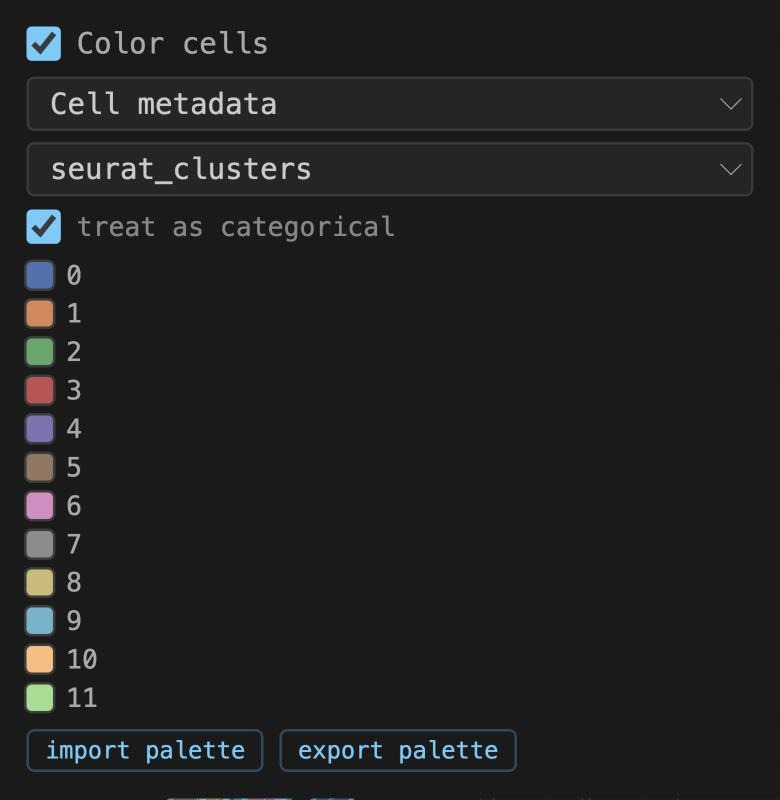
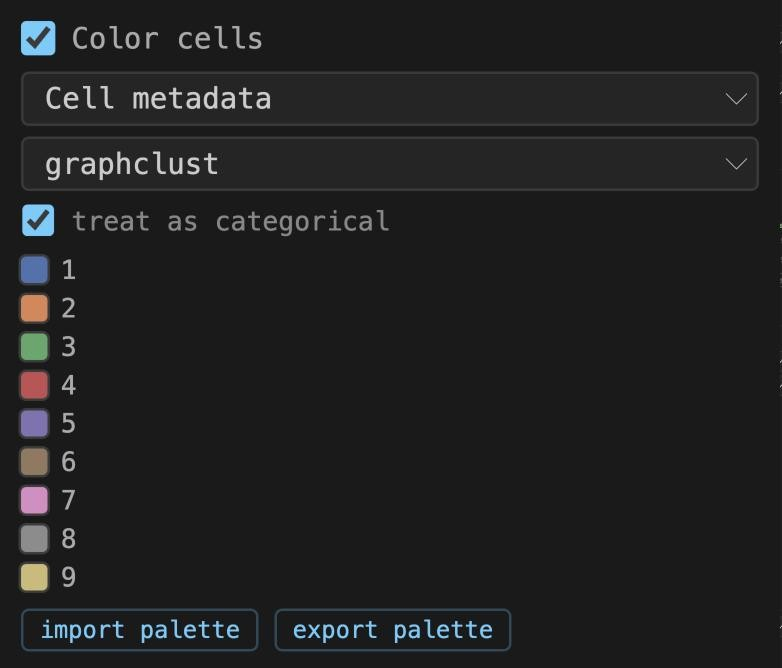
Worked examples on real data only: breast dataset loses its generated edges, gains 10x clusters; examples 1, 3 and 5 re-shot
The examples no longer use synthetic data. xenium_human_breast_2fov's
top-level edges.parquet was a make_edges.py placeholder (20 mouse-named
mechanisms with no transcripts behind them) that the provenance note
described as a NICHESv2 result; it is removed, and edges/niches_rad30.parquet
is the one edge source. 10x's own graph-based clustering ships as
cell-metadata/graphclust_10x.csv, and edge-metadata/ is recomputed from the
real run without the invented review flag. The release zip is rebuilt
(274 MB, digest in fetch_samples.py, RELEASE_TAG v1.0.1) and the provenance
note corrected.

Example 1's breast pair and edge panel are re-shot on the real run; Example 3
moves from the ileum fixture to the breast clusters; Example 5 drops the
synthetic seqFISH figure and gains 5d, one mechanism with every layer:
CXCL12 -> CXCR4 edges, its ligand and receptor transcripts, cell outlines and
cluster colours in a 115 um field, with a layer-by-layer reading.

Three fixes along the way: whole-number metadata columns are restored to
Int64 after the supplemental join (clusters read '1', not '1.0', and filters
match); the edge colour range covers drawn edges only, so pairs with none of
the selected mechanisms no longer pull the robust window to 0; re-selecting
the current edge source no longer empties the mechanism checklist. Golden
baseline re-recorded for the breast changes (all eleven moved probes are in
that dataset).

diff --git a/docs/vignettes.html b/docs/vignettes.html
@@ -116,11 +116,11 @@ datasets are published as release assets; one command fetches them:</p>
 <pre><code>python3 sample_data/fetch_samples.py</code></pre>
 <table>
   <tr><th>Menu entry</th><th>Platform</th><th>What it is</th><th>Used in</th></tr>
-  <tr><td><code>mouse_ileum_tiny</code></td><td>Xenium</td><td>Three 640-px patches of mouse ileum (36 cells) from 10x's tiny example run, with example <code>cell-metadata/</code>, <code>edge-metadata/</code> and two extra edge sets. In the clone.</td><td>3</td></tr>
+  <tr><td><code>mouse_ileum_tiny</code></td><td>Xenium</td><td>Three 640-px patches of mouse ileum (36 cells) from 10x's tiny example run, with generated edges and example metadata: a test fixture. In the clone.</td><td>—</td></tr>
   <tr><td><code>visium_hd_tiny</code></td><td>Visium HD</td><td>A corner of 10x's "Tiny Mouse Brain" Space Ranger output, 8 µm and 16 µm bins. In the clone.</td><td>4</td></tr>
-  <tr><td><code>visium_tiny</code></td><td>Visium</td><td>Synthetic classic Visium slide, 252 spots. In the clone.</td><td>—</td></tr>
-  <tr><td><code>seqfish_synthetic</code></td><td>seqFISH</td><td>Synthetic Spatial Genomics GenePS region, 36 cells. In the clone.</td><td>5</td></tr>
-  <tr><td><code>xenium_human_breast_2fov</code></td><td>Xenium</td><td>10x's human breast example, two fields of view, 7,275 cells, DAPI image, NICHESv2 edges. Fetched.</td><td>1, 5, 7</td></tr>
+  <tr><td><code>visium_tiny</code></td><td>Visium</td><td>Synthetic classic Visium slide, 252 spots, a test fixture. In the clone.</td><td>—</td></tr>
+  <tr><td><code>seqfish_synthetic</code></td><td>seqFISH</td><td>Synthetic Spatial Genomics GenePS region, 36 cells, a test fixture. In the clone.</td><td>—</td></tr>
+  <tr><td><code>xenium_human_breast_2fov</code></td><td>Xenium</td><td>10x's human breast example, two fields of view, 7,275 cells, DAPI image, a NICHESv2 run and 10x's own graph clusters. Fetched.</td><td>1, 3, 5, 7</td></tr>
   <tr><td><code>visium_mouse_kidney</code></td><td>Visium</td><td>10x's mouse kidney coronal section, 1,438 spots on tissue, NICHESv2 spot–spot edges. Fetched.</td><td>4</td></tr>
   <tr><td><code>cosmx-mousebrain</code></td><td>CosMx</td><td>Bruker/NanoString 1000-plex mouse brain, coronal section, 38,996 cells, no image. Fetched; non-commercial licence.</td><td>1, 2, 6</td></tr>
 </table>
@@ -162,20 +162,19 @@ already know its anatomy, so you can judge the answer.</p>
 </ul>
 <h3>The same two steps on a different platform</h3>
 <p>Nothing above is specific to CosMx. The pair below is the Xenium human breast example
-(two fields of view, 7,275 cells, 44,759 pairs) drawn with the same settings. Its scores are
-tightly bunched rather than heavy-tailed (median 9.1 in a span of 4.7–12.0), so here the
-range is a stated clamp rather than the robust window.</p>
+(two fields of view, 7,275 cells, 181,523 directed pairs scored over 32 mechanisms) drawn
+with the same settings and the same <span class="ui">robust 5–95%</span> range.</p>
 <figure class="pair">
-  <img src="img/vignettes/ex1_breast_graph.jpg" alt="The tissue graph of a two-field Xenium breast section drawn as thin grey lines">
-  <img src="img/vignettes/ex1_breast_scored.jpg" alt="The same breast graph scored with viridis: mostly purple with scattered yellow pairs">
-  <figcaption>Xenium breast, tissue graph and scored graph. Colour range clamped to <strong>9.0–10.5</strong>; scores in view span 4.7–12.0.</figcaption>
+  <img src="img/vignettes/ex1_breast_graph.jpg" alt="The tissue graph of a two-field Xenium breast section drawn as thin grey lines, dense in the tumour and open in the stroma">
+  <img src="img/vignettes/ex1_breast_scored.jpg" alt="The same breast graph scored with viridis: purple through the stroma, with yellow concentrated in the tumour nests">
+  <figcaption>Xenium breast, tissue graph and scored graph, every pair drawn. Window 0–33 (robust 5–95% of the scores in view, whose full span is 0–693). The yellow sits in the tumour nests, where epithelial cells pack tightly and homotypic pairs such as CDH1–CDH1 and DSC2–DSC2 score highly; the stroma between them is purple.</figcaption>
 </figure>
 <figure>
-  <img src="img/vignettes/xenium_edge_info_pane.jpg" alt="The viewer with an edge selected; a floating panel lists sending cell, receiving cell, annotations and the scored mechanisms with their percentages">
-  <figcaption>Shift-click on an edge (breast dataset). The panel reads sending cell (Endothelial) → receiving cell (Smooth_Muscle), the demo annotations, then Fgf2→Fgfr1, Efnb1→Ephb4 and Vegfa→Flt1 with their scores.</figcaption>
+  <img src="img/vignettes/xenium_edge_info_pane.jpg" alt="The EDGE panel for one cell pair: sending and receiving cell ids, an Annotations block with interaction_class, score_tier and score_percentile, and seven mechanisms with their scores and shares, led by CXCL12 to CD4 and CXCL12 to CXCR4">
+  <figcaption>Shift-click on an edge (breast dataset). The <strong>EDGE</strong> panel names the sending and receiving cell, shows the pair's annotations from <code>edge-metadata/</code>, then every mechanism NICHESv2 scored on it with its share of the total: here seven, led by CXCL12 → CD4 and CXCL12 → CXCR4.</figcaption>
 </figure>
 <div class="callout tip"><strong class="label">Try next</strong>
-<p>Open <strong>Edge Filter</strong> and set <span class="ui">Sending cell</span> to a cell-type column. Only edges leaving that cell type remain; the tissue graph underneath is untouched, so you can still see the neighbourhood structure the filter removed.</p></div>
+<p>Open <strong>Edge Filter</strong> and set <span class="ui">Sending cell</span> to <span class="ui">graphclust</span>, then keep one cluster. Only edges leaving that cluster remain; the tissue graph underneath is untouched, so you can still see the neighbourhood structure the filter removed.</p></div>
 
 <!-- ─────────────────────────────────────────────────────────────── -->
 <h2 id="ex2"><span class="num">2</span>One cell's neighbourhood</h2>
@@ -209,7 +208,7 @@ with, how far they reach, and which mechanisms dominate across those edges.</p>
 
 <!-- ─────────────────────────────────────────────────────────────── -->
 <h2 id="ex3"><span class="num">3</span>Your own annotations, without touching the data</h2>
-<p class="meta">Dataset <code>mouse_ileum_tiny</code> · 3 minutes · in the clone</p>
+<p class="meta">Dataset <code>xenium_human_breast_2fov</code> (fetched) · 3 minutes</p>
 <p>Most analysis happens in R or Python after the instrument has finished. TissuePlex
 reads that work from two plain folders dropped beside the dataset, so clusters,
 scores or review flags appear in the viewer without regenerating anything:</p>
@@ -217,34 +216,39 @@ scores or review flags appear in the viewer without regenerating anything:</p>
   <li><code>cell-metadata/</code>, one row per cell, keyed on the cell barcode. <code>write.csv(df, "cell-metadata/clusters.csv")</code> from R works as is.</li>
   <li><code>edge-metadata/</code>, one row per cell pair, keyed on <code>"Sender|Receiver"</code>.</li>
 </ul>
-<p>The demo dataset ships both. Its <code>cell-metadata/example_clusters.csv</code> has a
-<code>seurat_clusters</code> column with twelve integer levels, chosen on purpose: integers
-are the common case for cluster ids and the awkward one for a viewer. It is a tiny
-fixture, three 640-pixel patches with 36 cells, so the figures here are small by nature;
-everything in it works the same on a full run.</p>
+<p>The breast dataset ships both. <code>cell-metadata/graphclust_10x.csv</code> is 10x's own
+graph-based clustering of this run, copied from the <code>analysis/</code> folder Xenium
+Onboard Analysis writes, with nine integer levels: integers are the common case for
+cluster ids and the awkward one for a viewer. <code>edge-metadata/example_annotations.csv</code>
+holds three per-pair summaries computed from the NICHESv2 file (whether the pair is
+autocrine or paracrine, a score tercile, and a score percentile), standing in for the
+columns a lab would write about its own pairs.</p>
 <ol>
-  <li>Choose <span class="ui">mouse_ileum_tiny</span> and zoom into the middle patch. Raise <span class="ui">outline</span> to 50% under <strong>Cell Segments</strong>.</li>
-  <li>Under <strong>Cell Color</strong>, tick <span class="ui">Color cells</span>, choose <span class="ui">Cell metadata</span>, then <span class="ui">seurat_clusters</span>.</li>
-  <li>The legend lists clusters 0 to 11 in numeric order with a swatch each; click a swatch to change its colour, or <span class="ui">import palette</span> to load a <code>category,#hex</code> file.</li>
-  <li>Hold <kbd>Shift</kbd> and click an edge: the <strong>EDGE</strong> panel opens with an <strong>Annotations</strong> block from <code>edge-metadata/example_annotations.csv</code>.</li>
+  <li>Choose <span class="ui">xenium_human_breast_2fov</span> and zoom into the edge of the tumour,
+  where the stroma runs through it as a dark band. Set <span class="ui">Cell Segments → fill</span> to
+  55% and <span class="ui">outline</span> to 40%, <span class="ui">Morphology</span> to 40%.</li>
+  <li>Under <strong>Cell Color</strong>, tick <span class="ui">Color cells</span>, choose
+  <span class="ui">Cell metadata</span>, then <span class="ui">graphclust</span>.</li>
+  <li>The legend lists clusters 1 to 9 in numeric order with a swatch each; click a swatch to change its colour, or <span class="ui">import palette</span> to load a <code>category,#hex</code> file.</li>
+  <li>Tick <span class="ui">Edges</span> at about 45% so the signalling graph sits over the clusters, then hold <kbd>Shift</kbd> and click a line: the <strong>EDGE</strong> panel opens with an <strong>Annotations</strong> block from <code>edge-metadata/</code> above the mechanisms.</li>
 </ol>
 <figure>
-  <img src="img/vignettes/ex3_clusters.jpg" alt="Fourteen cell polygons filled in twelve distinct cluster colours with light outlines, joined by thin directed edges, on a dark background">
-  <figcaption><strong>3a · Cells filled by <code>seurat_clusters</code></strong> from a CSV in <code>cell-metadata/</code>, with the NICHESv2 edges between them. The viewer recognised twelve integer levels as categories rather than a 0–11 gradient; <span class="ui">treat as categorical</span> is there to override that call either way.</figcaption>
+  <img src="img/vignettes/ex3_clusters.jpg" alt="Several hundred cells filled by cluster colour: red, green and blue tumour clusters packed together, a band of purple stromal cells running diagonally through them, blue outlines, and NICHESv2 edges drawn over everything in viridis">
+  <figcaption><strong>3a · Cells filled by <code>graphclust</code></strong> from a CSV in <code>cell-metadata/</code>, 437 cells in a 258 × 185 µm field at the tumour edge, with every NICHESv2 pair drawn over them at 45%. The viewer recognised nine integer levels as categories rather than a 1–9 gradient; <span class="ui">treat as categorical</span> is there to override that call either way. The clusters follow the tissue: the three tumour clusters (red 4, green 3, blue 1) fill the nests, and the purple cluster 5, whose enriched genes are VWF, PDGFRB, POSTN and LRRC15, is the stromal band between them.</figcaption>
 </figure>
 <figure class="pair">
-  <img src="img/vignettes/ex3_legend.jpg" alt="The Cell Color section: Color cells ticked, Cell metadata, seurat_clusters, treat as categorical ticked, twelve colour swatches labelled 0 to 11, and import and export palette buttons">
-  <img src="img/vignettes/ex3_edgepanel.jpg" alt="The EDGE panel for an Endothelial to Fibroblast pair: an Annotations block with interaction_class heterotypic, score_tier mid, score_percentile 52.44, demo_review_flag unreviewed, then three mechanisms with scores">
-  <figcaption><strong>3b · The two places annotations surface.</strong> Left: the <strong>Cell Color</strong> section with the categorical legend. Cluster 10 sorts after cluster 9, not between 1 and 2, because columns whose labels all parse as numbers are ordered numerically. Right: the <strong>EDGE</strong> panel for one Endothelial→Fibroblast pair; the <strong>Annotations</strong> block is the row for this pair in <code>edge-metadata/</code>, above the three mechanisms NICHESv2 scored on it. The folder's README says which of those columns are derived from the edge file and which one is invented.</figcaption>
+  <img src="img/vignettes/ex3_legend.jpg" alt="The Cell Color section: Color cells ticked, Cell metadata, graphclust, treat as categorical ticked, nine colour swatches labelled 1 to 9, and import and export palette buttons">
+  <img src="img/vignettes/ex3_edgepanel.jpg" alt="The EDGE panel for one pair: sending and receiving cell ids, an Annotations block with interaction_class paracrine, score_tier high and score_percentile 99.920, then seven mechanisms with scores and shares, led by CXCL12 to CD4 and CXCL12 to CXCR4">
+  <figcaption><strong>3b · The two places annotations surface.</strong> Left: the <strong>Cell Color</strong> section with the categorical legend; the labels read <code>1</code> to <code>9</code>, not <code>1.0</code>, even though two cells in the file have no cluster. Right: the <strong>EDGE</strong> panel for one pair in the stroma; the <strong>Annotations</strong> block is the row for this pair from <code>edge-metadata/</code>, and below it the seven mechanisms NICHESv2 scored on it.</figcaption>
 </figure>
 <h3>What to notice</h3>
 <ul>
-  <li>The same column is offered under <strong>Cell Filter</strong>. Choose it there and untick all but one cluster: the remaining cells are drawn at full density, because the filter is applied on the server before sampling.</li>
-  <li>Annotation columns also appear in the <span class="ui">edge color</span> and <strong>Edge Filter</strong> menus, so a review flag or a confidence tier can colour or subset the edges directly.</li>
-  <li>The cell types in the EDGE panel header (Endothelial, Fibroblast) come from the edge file's own <code>sending_type</code> / <code>receiving_type</code> columns, which NICHESv2 writes only when asked; in this fixture they are simulated.</li>
+  <li>The same column is offered under <strong>Cell Filter</strong>. Choose <span class="ui">graphclust</span> there and untick all but cluster 5: only the stroma remains, drawn at full density, because the filter is applied on the server before sampling.</li>
+  <li>Annotation columns also appear in the <span class="ui">edge color</span> and <strong>Edge Filter</strong> menus, so <code>score_tier</code> can colour the edges and <code>interaction_class</code> can subset them directly.</li>
+  <li>The clusters carry no names. What each one is enriched for can be read off the transcripts (example 5): cluster 6 for CD163, C1QA and LYZ, cluster 8 for KRT14 and KRT5, cluster 9 for PTPRC. Naming them is the analyst's job, in the CSV.</li>
 </ul>
 <div class="callout tip"><strong class="label">Try next</strong>
-<p>This dataset also has three edge sets. The <span class="ui">Edge source</span> menu at the top of the sidebar switches between <code>edges</code>, <code>edge.raw.minimum</code> and <code>edge.normalized.product</code>, each a different scoring of the same tissue.</p></div>
+<p>Open <strong>Edge Filter</strong>, set <span class="ui">Sending cell</span> to <span class="ui">graphclust</span> and keep only cluster 5. The edges that remain all leave the stroma; the tissue graph underneath is untouched, so the neighbourhood structure the filter removed is still visible.</p></div>
 
 <!-- ─────────────────────────────────────────────────────────────── -->
 <h2 id="ex4"><span class="num">4</span>Spots and bins: the array platforms</h2>
@@ -284,7 +288,7 @@ and <strong>Spot Info</strong> on Visium, <strong>Bin Segments</strong> on HD.</
 
 <!-- ─────────────────────────────────────────────────────────────── -->
 <h2 id="ex5"><span class="num">5</span>Transcripts inside their cells</h2>
-<p class="meta">Datasets <code>xenium_human_breast_2fov</code> (fetched) and <code>seqfish_synthetic</code> (in the clone) · 4 minutes</p>
+<p class="meta">Dataset <code>xenium_human_breast_2fov</code> (fetched) · 4 minutes</p>
 <p>Imaging platforms record every transcript as a point with a gene name. TissuePlex
 draws those points where they were detected, over the nuclear stain and inside the
 cell outlines they were assigned to, coloured by gene, and filters them by gene in the
@@ -332,16 +336,61 @@ histologist asks of an in-situ stain: which cells, exactly, express this?</p>
   where LUM (pink) takes over; MKI67 (green) picks out the cells in cycle. Nothing here
   was drawn by hand: this is the gene filter and three colours.</figcaption>
 </figure>
+<h3>Every layer at once: one mechanism, its transcripts, and the cells</h3>
+<p>The layers above were introduced one at a time. On real data the point is to stack
+them: pick one ligand–receptor mechanism, draw its edges, draw the transcripts of its
+ligand and its receptor, and colour the cells by an independent clustering. Five
+layers, each from a different file, in one field 115 µm across.</p>
+<ol>
+  <li>Keep the settings of 5a, with <span class="ui">Morphology</span> down to 40% and
+  <span class="ui">Cell Segments → fill</span> up to 35%.</li>
+  <li>Under <strong>Cell Color</strong>, tick <span class="ui">Color cells</span>, choose
+  <span class="ui">Cell metadata</span>, then <span class="ui">graphclust</span>. That column
+  is 10x's own graph-based clustering of this run, read from
+  <code>cell-metadata/graphclust_10x.csv</code> beside the dataset; the viewer recognises its
+  nine integer levels as categories and gives each a colour.</li>
+  <li>Under <strong>Transcript Species</strong>, select only CXCL12 and CXCR4; give them white
+  and red with the swatches, or <span class="ui">import palette</span> with
+  <code>breast_cxcl12_palette.csv</code>.</li>
+  <li>Tick <span class="ui">Edges</span>, drag its <span class="ui">sample</span> to 100%, set
+  <span class="ui">width</span> 1.5, <span class="ui">offset</span> 2 and
+  <span class="ui">Harpoon</span>, and under <strong>LRM Mechanisms</strong> click
+  <span class="ui">none</span> and tick only CXCL12 → CXCR4. Set the edge legend to
+  <span class="ui">robust 5–95%</span>. Zoom in until about 80 cells fill the view.</li>
+</ol>
 <figure>
-  <img src="img/vignettes/ex5_seqfish.jpg" alt="Thirty-six synthetic cells in a grid, each a DAPI blob inside a polygon outline filled with coloured transcript dots">
-  <figcaption><strong>5d · The same layers on a Spatial Genomics GenePS export.</strong>
-  <code>seqfish_synthetic</code> is a 36-cell fixture made by <code>sample_data/make_seqfish.py</code>,
-  not tissue, and it exists for a reason worth knowing: on this platform the cell
-  outlines (GeoJSON) are in pixels and the transcripts (CSV) are in microns. The reader
-  decides each table's units separately, which is why both land on the same cells; a
-  viewer that applied one transform to everything would draw the dots at a hundredth
-  of the size of the outlines. All 10,026 transcripts of its 36 genes are drawn.</figcaption>
+  <img src="img/vignettes/ex5_layers.jpg" alt="About eighty cells filled in cluster colours, mostly tan with some purple, green and pink, outlined in blue over faint DAPI; white CXCL12 and red CXCR4 transcript dots inside them; and CXCL12 to CXCR4 edges drawn as offset lines with harpoon heads, coloured purple to yellow by score, converging on receiving cells">
+  <figcaption><strong>5d · One mechanism, every layer.</strong> A 115 × 83 µm field of
+  breast stroma: 84 cells, 252 CXCL12 and 107 CXCR4 transcripts, and the 754 directed
+  CXCL12 → CXCR4 edges that touch the field, out of 1,707 scored pairs there. Both
+  sample sliders at 100%, so nothing is thinned. Edge colour: viridis, window 1–30
+  (robust 5–95% of the drawn edges, whose full span is 1–130).</figcaption>
 </figure>
+<p>Reading it from the bottom up:</p>
+<ul>
+  <li><strong>DAPI</strong>, grey, from the morphology image: where the nuclei are. It is
+  the one layer that is a picture rather than data.</li>
+  <li><strong>Cell outlines</strong>, blue, from the segmentation: which pixels the
+  instrument assigned to which cell. Every other layer is joined to these by cell id.</li>
+  <li><strong>Cell fill</strong>, one colour per cluster, from a CSV of analysis results
+  dropped beside the data. Here nine clusters from 10x's pipeline; the tan cluster (cluster 6, 44 of these
+  cells) is enriched for CD163, C1QA, LYZ and ITGAX, the purple one (cluster 5) for
+  VWF, PDGFRB and POSTN. A Seurat or scanpy label column works the same way.</li>
+  <li><strong>Transcripts</strong>, white for the ligand CXCL12 and red for the receptor
+  CXCR4, each dot at the position it was detected. This is the evidence: the nine cells
+  of cluster 5 in view, the stromal cluster, hold 87 of the 252 CXCL12 dots, while
+  CXCR4 is spread over the macrophage-like cluster 6 and the PTPRC-rich cluster 9.</li>
+  <li><strong>Edges</strong>, one per sending → receiving pair, from NICHESv2: each line is
+  that pair's score for this one mechanism, drawn from sender to receiver with the
+  harpoon at the receiving end, offset so that A → B and B → A are separate lines. The
+  fan of yellow lines converging on a cell is a cell whose neighbours send it CXCL12
+  while it expresses CXCR4; the transcripts underneath show why.</li>
+</ul>
+<p>Every number in the caption can be checked against the files: the cells and
+transcripts against the platform's own output, the clusters against 10x's
+<code>analysis/</code> folder, the edges against <code>edges/niches_rad30.parquet</code>.
+Nothing was drawn by hand.</p>
+
 <div class="callout note"><strong class="label">Quality filter</strong>
 <p>Xenium scores each transcript's decoding quality. Like Xenium Explorer, TissuePlex
 hides transcripts below Q&nbsp;20 by default; tick <span class="ui">show low-quality

diff --git a/frontend/src/hooks/useEdgeColors.js b/frontend/src/hooks/useEdgeColors.js
@@ -67,9 +67,16 @@ export function useEdgeColors(
     if (!enabled || mode !== "lrm_set" || !edges || edges.length === 0) return null;
     // visible_score_sum is present only while an LRM filter is active; with no
     // filter the rows are the raw structural rows and score_sum is the total.
-    const n = edges.length;
+    // Only edges that will be drawn enter the range: a pair carrying none of
+    // the selected mechanisms has visible_lrm_count 0 and is skipped by the
+    // layer, and letting its zero score into the window pulled the robust
+    // 5th percentile to 0 and the 95th well below the drawn edges' own.
+    const drawn = [];
+    for (const e of edges) if ((e.visible_lrm_count ?? e.lrm_count ?? 1) > 0) drawn.push(e);
+    const n = drawn.length;
+    if (n === 0) return null;
     const scores = new Float64Array(n);
-    for (let i = 0; i < n; i++) scores[i] = edges[i].visible_score_sum ?? edges[i].score_sum ?? 0;
+    for (let i = 0; i < n; i++) scores[i] = drawn[i].visible_score_sum ?? drawn[i].score_sum ?? 0;
     const r = rangeOf(scores, rangeMode);
     const { min, max } = r;
     const lo = clamp?.low  ?? r.lo;
@@ -83,7 +90,7 @@ export function useEdgeColors(
     for (let i = 0; i < n; i++) {
       const c = valueToColor(scores[i], lo, hi, palette);
       const a = fadeFrac == null ? 255 : fadeAlpha(span > 0 ? (scores[i] - lo) / span : 1, fadeFrac);
-      colorMap.set(edges[i].edge, [c[0], c[1], c[2], a]);
+      colorMap.set(drawn[i].edge, [c[0], c[1], c[2], a]);
     }
     return { colorValues: colorMap, type: "continuous", vmin: min, vmax: max, lo, hi, autoLo: r.lo, autoHi: r.hi, categories: [], categoryColors: new Map() };
   }, [enabled, mode, edges, palette, clamp?.low, clamp?.high, fadeFrac, rangeMode]);

diff --git a/frontend/src/store.js b/frontend/src/store.js
@@ -275,6 +275,11 @@ export const useStore = create((set, get) => ({
   // The LRM catalogue, colour range and edge filter are all specific to one
   // edges.parquet and must be re-derived when the source changes.
   setPanelEdgeFile: (i, edgeFile) => set((s) => {
+    // Re-selecting the file already in use is a no-op. The dataset picker
+    // confirms the default once the file list resolves, and clearing the
+    // catalogue here without a change of `edgeFile` to refetch it left the
+    // mechanism checklist empty ("0 of 0 LRMs").
+    if (s.panels[i]?.edgeFile === edgeFile) return s;
     const next = [...s.panels];
     next[i] = {
       ...next[i], edgeFile, lrmCatalogue: [],

diff --git a/sample_data/fetch_samples.py b/sample_data/fetch_samples.py
@@ -2,7 +2,7 @@
 """Fetch the larger TissuePlex demo datasets into sample_data/.
 
 Four small datasets are committed to the repository. The real, larger ones are
-too big for git and are attached to the v1.0.0 GitHub release instead. This
+too big for git and are attached to the v1.0.1 GitHub release instead. This
 script downloads them, verifies their SHA-256 checksums, and unpacks each into
 its own folder beside this file, where `docker compose up` (which mounts
 sample_data/ as /data) and the dev backend (DATA_ROOT=../sample_data) find them.
@@ -31,17 +31,17 @@ import urllib.request
 import zipfile
 from pathlib import Path
 
-RELEASE_TAG = "v1.0.0"
+RELEASE_TAG = "v1.0.1"
 RELEASE_BASE = f"https://github.com/RaredonLab/TissuePlex/releases/download/{RELEASE_TAG}"
 
 # name -> metadata. `sha256` is of the zip asset; `size_mb` is the download size.
 MANIFEST = {
     "xenium_human_breast_2fov": {
         "platform": "Xenium (10x Genomics)",
-        "summary": "10x 'Human Breast 2 FOV' example run: 7,275 cells, DAPI morphology, NICHESv2 edges",
+        "summary": "10x 'Human Breast 2 FOV' example run: 7,275 cells, DAPI morphology, NICHESv2 edges, 10x graph clusters",
         "licence": "CC BY 4.0 (10x Genomics)",
-        "size_mb": 290,
[1 lines of base64/hex data omitted]
+        "size_mb": 274,
[1 lines of base64/hex data omitted]
     },
     "visium_mouse_kidney": {
         "platform": "Visium (10x Genomics)",

diff --git a/backend/app/readers/supplemental.py b/backend/app/readers/supplemental.py
@@ -112,7 +112,26 @@ def load_supplemental(
         # pandas' _x/_y suffixes and silently rename a user's column.
         new_cols = [key] + [c for c in frame.columns if c not in merged.columns]
         merged = merged.merge(frame[new_cols], on=key, how="outer")
-    return merged
+    return _restore_integers(merged, key)
+
+
+def _restore_integers(df: pd.DataFrame, key: str) -> pd.DataFrame:
+    """Give integer columns back their dtype after the outer join.
+
+    A cluster id column is integers in the user's file, but a cell the file
+    does not mention becomes NaN on the join, and pandas then promotes the
+    whole column to float64 — so the sidebar lists clusters as ``1.0``, ``2.0``
+    and a categorical filter on ``"1"`` matches nothing. Any float column whose
+    non-null values are all whole numbers goes to the nullable ``Int64`` dtype,
+    which keeps the missing cells missing and the labels ``1``, ``2``.
+    """
+    for col in df.columns:
+        if col == key or not pd.api.types.is_float_dtype(df[col]):
+            continue
+        vals = df[col].dropna()
+        if len(vals) and (vals == vals.round()).all():
+            df[col] = df[col].astype("Int64")
+    return df
 
 
 def collect_files(

diff --git a/backend/app/readers/base_reader.py b/backend/app/readers/base_reader.py
@@ -451,7 +451,12 @@ class SpatialDatasetReader(ABC):
         new_cols = [c for c in supp.columns if c not in cells.columns]
         if not new_cols:
             return cells
-        return cells.merge(supp[["cell_id"] + new_cols], on="cell_id", how="left")
+        merged = cells.merge(supp[["cell_id"] + new_cols], on="cell_id", how="left")
+        # A cell the user's file does not mention is NaN after the join, which
+        # promotes an integer cluster column to float ("1.0" in the legend, and a
+        # filter on "1" matching nothing). Restore Int64 for whole-number columns.
+        from .supplemental import _restore_integers
+        return _restore_integers(merged, "cell_id")
 
     # ── Shared utilities ──────────────────────────────────────────────────────
 

diff --git a/CLAUDE.md b/CLAUDE.md
@@ -323,10 +323,19 @@ split by licence, recorded in `docs/public_datasets.md` (*What ships with Tissue
 
 | Dataset | How it ships | Why |
 |---|---|---|
-| `xenium_human_breast_2fov`, `visium_mouse_kidney` | release asset (attached to the `v1.0.0` release) | 10x example data, CC BY 4.0 |
+| `xenium_human_breast_2fov`, `visium_mouse_kidney` | release asset (attached to the `v1.0.1` release; the breast zip was rebuilt for v1.0.1, see below) | 10x example data, CC BY 4.0 |
 | `cosmx-mousebrain` | release asset, with Bruker's licence PDF inside | Bruker "Data License Agreement for Non-Commercial Use" via the OSTA OSF archive; redistributable only with the licence, a modification notice and non-commercial use. `tx_file.csv` is truncated to FOV 1 (399,999 rows). Separate from the code licence. |
 | `merscope-vpt-smallset` | not distributed | Vizgen's U2OS "small set" from the VPT vignette; no licence stated, terms of use reserve redistribution |
 | `seqfish_instrument2` | not distributed | Spatial Genomics test set used by scverse CI; gated download, no open licence |
+
+**The breast dataset carries real data only.** Its `edges.parquet` was a `make_edges.py`
+placeholder (20 mouse-named mechanisms with no transcripts behind them) and was
+removed in v1.0.1; `edges/niches_rad30.parquet` is the NICHESv2 run and the only edge
+source. `cell-metadata/graphclust_10x.csv` is 10x's graph-based clustering copied from
+`analysis.tar.gz`, and `edge-metadata/` is recomputed from the real run without the
+invented `demo_review_flag`. The worked examples use no synthetic data: `mouse_ileum_tiny`
+(generated edges, clusters and annotations), `seqfish_synthetic` and `visium_tiny` are
+test fixtures only.
 
 `sample_data/fetch_samples.py` downloads the release zips, verifies SHA-256 (the digests
 are in its `MANIFEST`), and unpacks each beside itself. The zips were built from the
@@ -365,6 +374,12 @@ dataset_dir/
 
 **Supported formats**: `.csv`, `.csv.gz`, `.parquet`.  Multiple files are allowed and
 are outer-joined on the barcode key.
+
+**Whole-number float columns are restored to `Int64` after the join**
+(`supplemental._restore_integers`, applied in `load_supplemental` and again in
+`_merge_supplemental`). An outer/left join leaves NaN for cells the file does not
+mention, which promotes an integer cluster column to float64: the legend then reads
+`1.0`, `2.0`, and a categorical filter comparing strings (`"1"`) matches nothing.
 
 **Barcode column resolution** (in order of precedence):
 1. A column explicitly named `cell_id`
@@ -1660,7 +1675,7 @@ With no minimum the channel is 255 everywhere and nothing changes — that
 invariant is pinned in `src/fadeAlpha.test.js`. Metadata-continuous modes do
 not fade; extending them is one condition in each hook.
 
-**Edge lrm_set coloring is fully client-side**: `useEdgeColors` computes colors
+**Edge lrm_set coloring is fully client-side**, and ranges over drawn edges only — rows with `visible_lrm_count` 0 are skipped, or their zero scores pull the window down.: `useEdgeColors` computes colors
 synchronously from `visible_score_sum` in the already-fetched edges array. No server
 call is made for `lrm_set` mode. With no clamp the range is the min and max of
 `visible_score_sum` over the rows in view, recomputed on every pan and toggle, so the

diff --git a/CHANGELOG.md b/CHANGELOG.md
@@ -9,6 +9,10 @@ In progress.
 
 - **Honest colour ranges.** Cell and edge colour scales are now *auto* by default: their endpoints are the minimum and maximum of what is actually drawn, recomputed on every pan and every mechanism toggle, and the legend says whether it is auto or clamped. A second auto mode, **robust 5–95%**, ranges on the 5th to 95th percentile of the drawn values for heavy-tailed scores and is named in the legend. Previously the viewer silently clamped the top of the scale at the 95th percentile of the viewport on every pan, so colours saturated at a value the legend did not show, `reset range` was undone by the next pan, and a clamp set by hand was overwritten.
 - **The shared colour scale now covers edges.** With `shared colour scale across panels` on, both panels' edge colours go through one window, as the cells' already did; it is the union of each panel's own auto window (full or robust), and the legend reads `shared`. Edge colours used to range per panel regardless of the setting, so two panels of edges that looked comparable were not.
+- **The breast demo dataset is real data only.** `xenium_human_breast_2fov` no longer ships the generated placeholder `edges.parquet` (mouse gene names on a human panel); its one edge source is the NICHESv2 run `edges/niches_rad30.parquet`, its `edge-metadata/` is recomputed from that run with the invented review flag dropped, and 10x's own graph-based clustering ships as `cell-metadata/graphclust_10x.csv`. The release zip is rebuilt and `fetch_samples.py` now points at the `v1.0.1` release.
+- **Integer metadata stays integer.** A cluster column with a few unlabelled cells was promoted to float by the join, so the legend read `1.0`, `2.0` and a filter on `1` matched nothing. Whole-number columns are restored to a nullable integer dtype after the join.
+- **Edge colour ranges over drawn edges only.** Pairs carrying none of the selected mechanisms (score 0) no longer enter the auto window; with one mechanism selected the robust window used to start at 0 and end well below the drawn edges' own 95th percentile.
+- Re-selecting the edge source already in use no longer empties the mechanism checklist.
 - **Transcript dot size.** A `dot` slider under Transcripts sets the largest radius a transcript dot draws at (default 3 px; it was a fixed 8 px, which at 100% sample buried the cells).
 - Two importable mechanism lists for the mouse brain (`sample_data/example_lists/`), used by worked example 6.
 - README rewritten as a concise, public-facing page; release notes moved here.

diff --git a/docs/public_datasets.md b/docs/public_datasets.md
@@ -15,13 +15,13 @@ catalogue of further public data, mostly 10x Xenium.
 | `visium_hd_tiny` | Visium HD | **in git** — subset of 10x "Visium HD Tiny Mouse Brain"; see its `PROVENANCE.md` | CC BY 4.0 (10x) | 26 MB |
 | `visium_tiny` | Visium | **in git** — synthetic, `make_visium.py` | — | 0.9 MB |
 | `seqfish_synthetic` | seqFISH | **in git** — synthetic, `make_seqfish.py` | — | 0.8 MB |
-| `xenium_human_breast_2fov` | Xenium | **release asset** via `sample_data/fetch_samples.py` — trimmed copy of 10x "Human Breast 2 FOV" plus NICHESv2 edges | CC BY 4.0 (10x) | 290 MB |
+| `xenium_human_breast_2fov` | Xenium | **release asset** via `sample_data/fetch_samples.py` — trimmed copy of 10x "Human Breast 2 FOV" plus the NICHESv2 run `edges/niches_rad30.parquet`, 10x's own graph clusters as `cell-metadata/`, and per-pair summaries as `edge-metadata/`. Nothing generated. | CC BY 4.0 (10x) | 274 MB |
 | `visium_mouse_kidney` | Visium | **release asset** — 10x `V1_Mouse_Kidney` (two files, see below) plus NICHESv2 edges | CC BY 4.0 (10x) | 39 MB |
 | `cosmx-mousebrain` | CosMx | **release asset** — modified subset of the Bruker/NanoString 1000-plex mouse brain as archived by the OSTA project (OSF `5n4q3`, folder `CosMx1k_MouseBrain2`); `tx_file.csv` truncated to FOV 1 | Bruker "Data License Agreement for Non-Commercial Use" — PDF ships in the folder; **non-commercial only**, separate from TissuePlex's own licence | 58 MB |
 | `merscope-vpt-smallset` | MERSCOPE | **not distributed** — Vizgen's U2OS "small set" from the `vizgen-postprocessing` vignette (1 GB zip; the `cell_by_gene` / `cell_metadata` tables are VPT outputs). No licence is stated for the data and Vizgen's terms of use reserve redistribution, so it stays a local-only development set | unclear | 43 MB local |
 | `seqfish_instrument2` | seqFISH | **not distributed** — Spatial Genomics' `seqfish-2-test-dataset.zip` used by scverse CI; downloads from spatialgenomics.com are gated and "all rights reserved" | not open | 2 MB local |
 
-The release assets are attached to the GitHub release tagged `v1.0.0` (the code release; the data
+The release assets are attached to the GitHub release tagged `v1.0.1` (the code release; the data
 zips are extra files on it, pinned by `RELEASE_TAG` in the script). Each zip holds
 only the files TissuePlex reads, a `PROVENANCE.md` stating source, licence and every
 modification, and (for CosMx) the licence PDF. `fetch_samples.py` verifies a SHA-256

diff --git a/sample_data/example_lists/README.md b/sample_data/example_lists/README.md
@@ -9,6 +9,7 @@ CSV files for the **import** buttons in the sidebar, matched to `mouse_ileum_tin
 | `mouse_brain_neuropeptides.csv` | LRM Mechanisms | `cosmx-mousebrain`: 31 neuropeptide → receptor mechanisms (worked example 6) |
 | `breast_stroma_markers.csv` | Transcript species | `xenium_human_breast_2fov`: LUM, ACTA2, CD68, PECAM1 (worked example 5) |
 | `breast_tumour_markers.csv` | Transcript species | `xenium_human_breast_2fov`: EPCAM, LUM, MKI67 (worked example 5) |
+| `breast_cxcl12_palette.csv` | Transcript species → import palette | White for CXCL12, red for CXCR4 (worked example 5d) |
 | `breast_marker_palette.csv` | Transcript species → import palette | Colours for the six genes above, `gene,#hex` |
 | `mouse_brain_glial_support.csv` | LRM Mechanisms | `cosmx-mousebrain`: 22 glial lipid-transport, complement and microglial mechanisms (worked example 6) |
 
